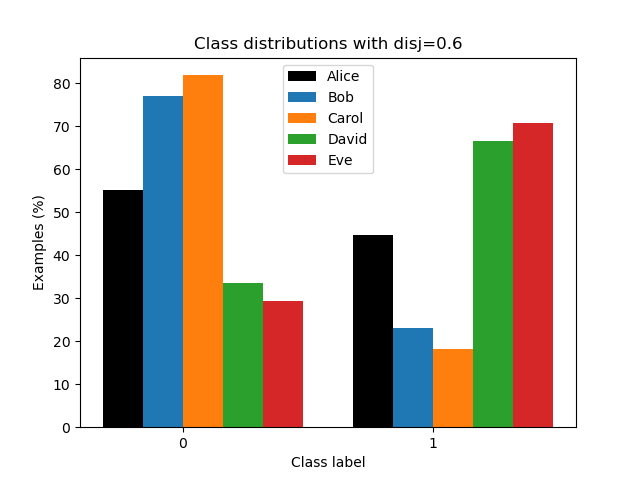
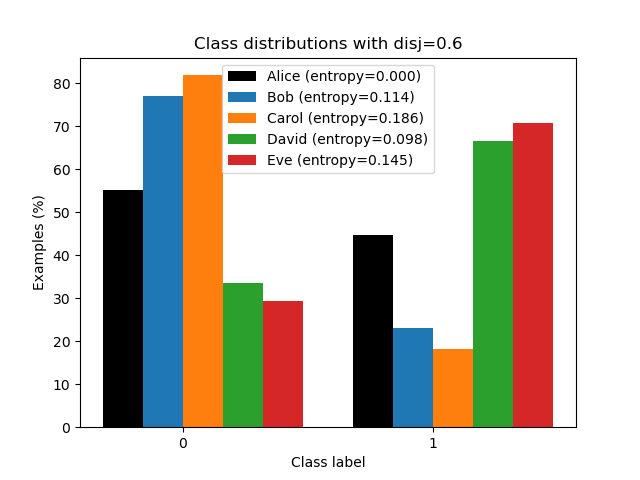
Show divergence from Alice distribution

Changed region(s): [[0.3438, 0.125, 0.6875, 0.375]]

diff --git a/scripts/make_plots.py b/scripts/make_plots.py
@@ -2,6 +2,7 @@ import json
 
 import matplotlib.pyplot as plt
 import numpy as np
+import scipy.stats
 
 RESULTS_FILE = {
     'mnist': "experiments/mnist/results/all.json",
@@ -54,6 +55,10 @@ def distributions(results, split_type=None):
         width = 0.8 / len(names)
         for i, name in enumerate(names):
             lc = np.array(lcs[name])
+            legend_label = name
+            if r['protocol'] == 'crowdsource':
+                ent = scipy.stats.entropy(lcs["Alice"], lc)
+                legend_label += f" (entropy={ent:.3f})"
             distribution = 100 * lc / sum(lc)
             classes = np.arange(len(lc))
             plt.bar(
@@ -61,7 +66,7 @@ def distributions(results, split_type=None):
                 distribution,
                 width,
                 color=_PLOT_COLOUR(name),
-                label=f"{name}"
+                label=legend_label
             )
         plt.title(f"Class distributions with disj={r['disjointness']}")
         plt.xlabel('Class label')
@@ -78,17 +83,15 @@ def counts(results, percent=True):
         names = NAMES[:n]
         round_idxs = range(0, r['final_round_num']+1)
         total_count = r['total_token_counts'][-1]
-        if r['split_type'] == 'equal':
+        if r['split_type'] in {'equal', 'noniid'}:
             details = [''] * len(names)
         if r['split_type'] == 'size':
             details = [f" (size={ratio})" for ratio in r['ratios']]
         if r['split_type'] == 'flip':
             details = [f" (flip={prob})" for prob in r['flip_probs']]
         if r['split_type'] == 'unique_digits':
-            details = [f" (others)"] * len(names)
+            details = [" (others)"] * len(names)
             details[0] = [f" ({','.join(r['unique_digits'])})"]
-        if r['split_type'] == 'noniid':
-            details = [f" (disj={r['disjointness']})"] * len(names)
         if r['split_type'] == 'dp':
             details = [f" (w/out DP)"] * len(names)
             for i in range(len(names)):
